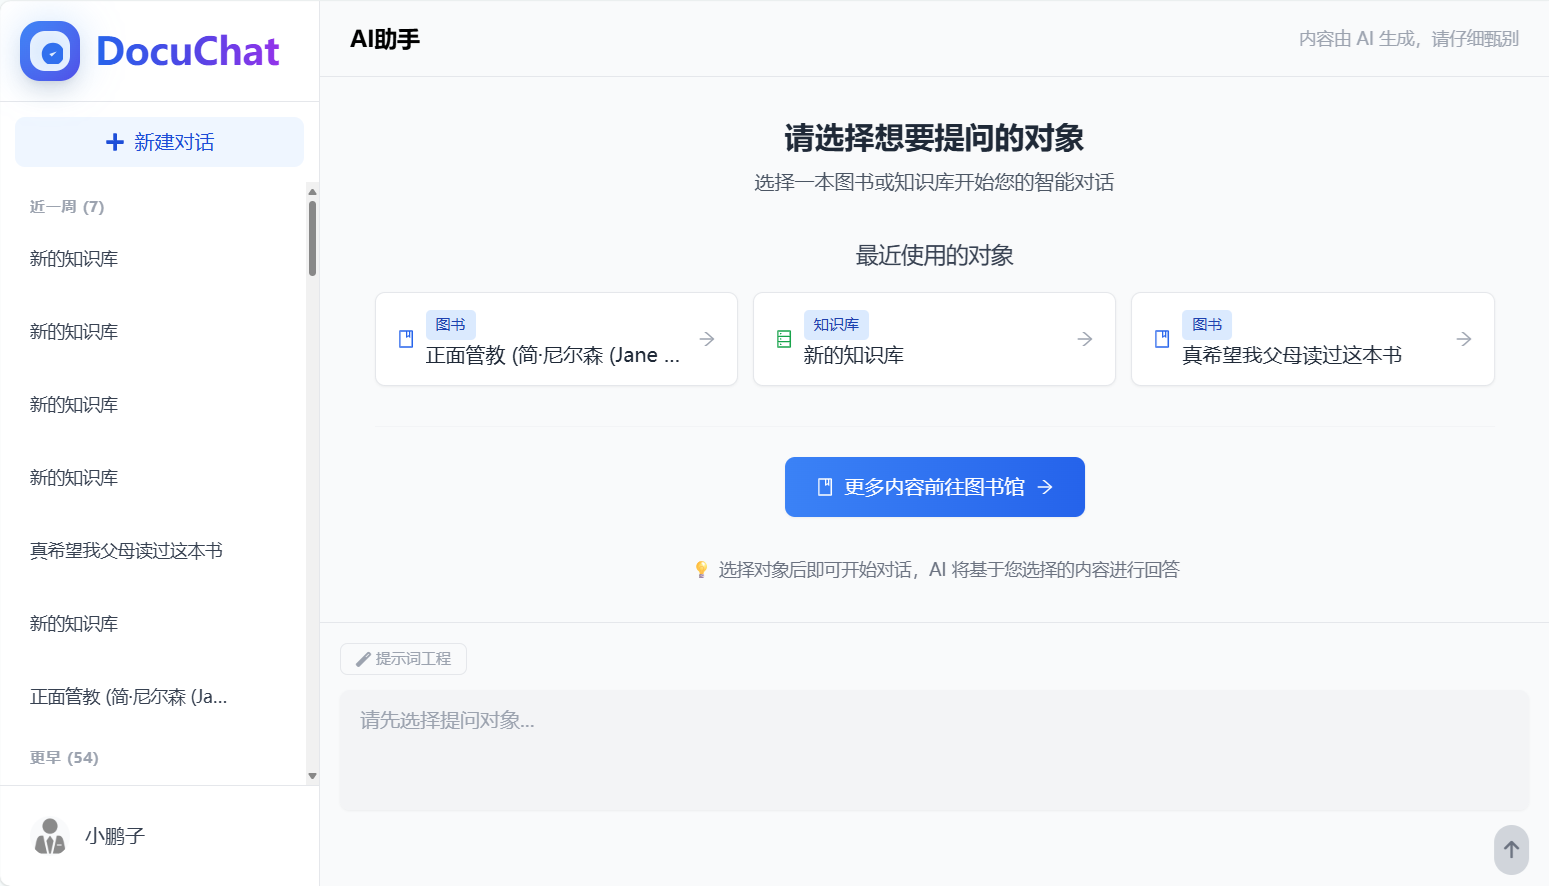
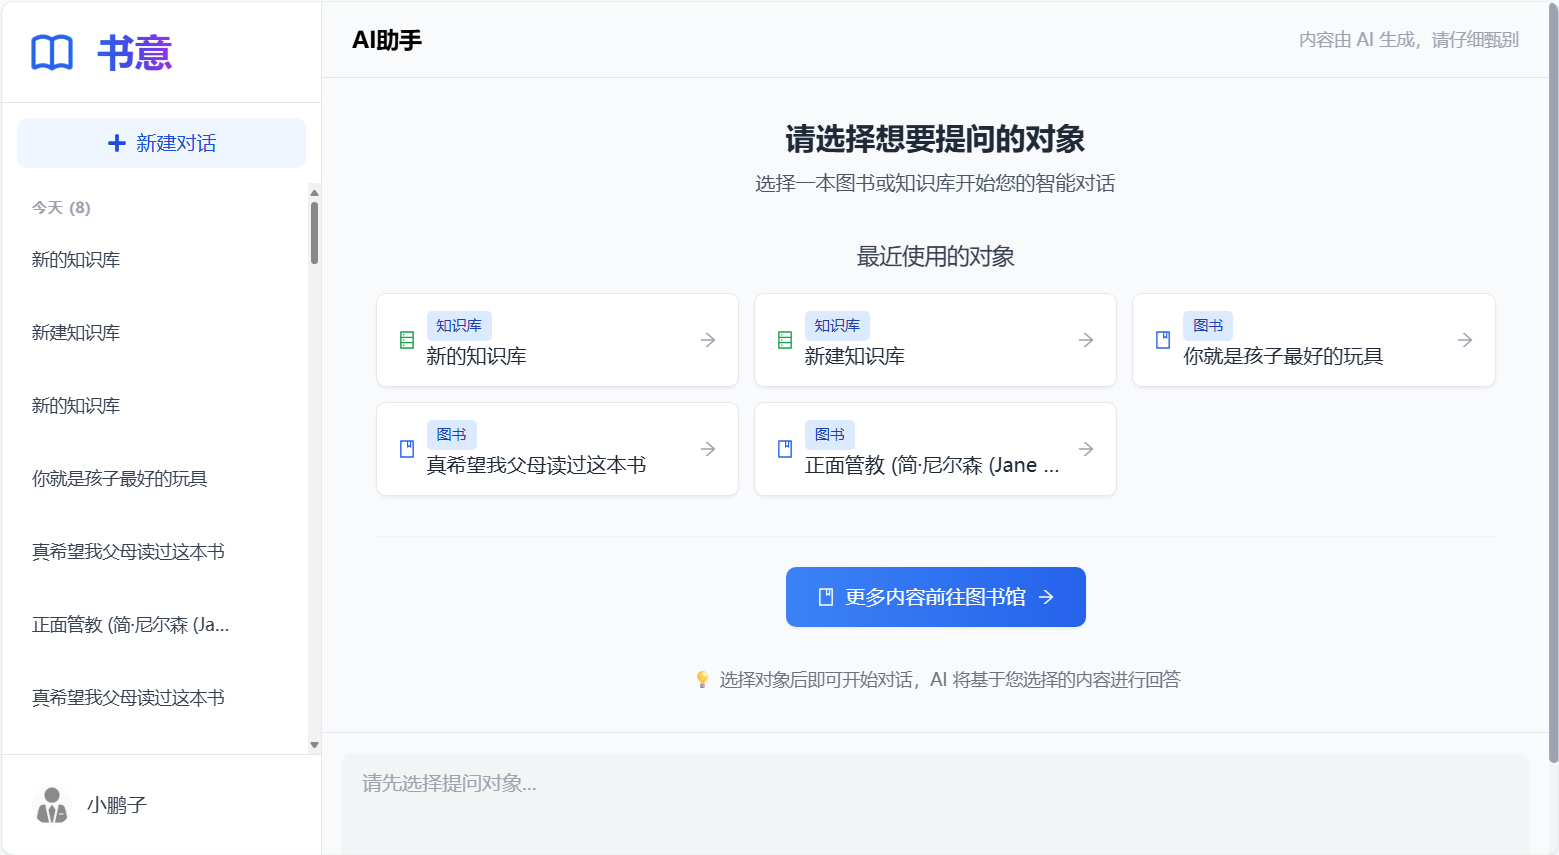
更换主页图片显示顺序，知识问答显示在最前面

diff --git a/frontend/src/pages/Home.js b/frontend/src/pages/Home.js
@@ -6,27 +6,27 @@ function Home() {
   const slides = [
     {
       id: 0,
+      image: "/知识问答.png",
+      title: "知识问答",
+      description: "互动问答体验"
+    },
+    {
+      id: 1,
       image: "/语音解读.png",
       title: "语音解读",
       description: "深度语音解读体验"
     },
     {
-      id: 1,
+      id: 2,
       image: "/知识脑图.png",
       title: "知识脑图",
       description: "系统化知识结构"
     },
     {
-      id: 2,
+      id: 3,
       image: "/知识测试.png",
       title: "知识测试",
       description: "智能测试验证"
-    },
-    {
-      id: 3,
-      image: "/知识问答.png",
-      title: "知识问答",
-      description: "互动问答体验"
     }
   ];
   useEffect(() => {